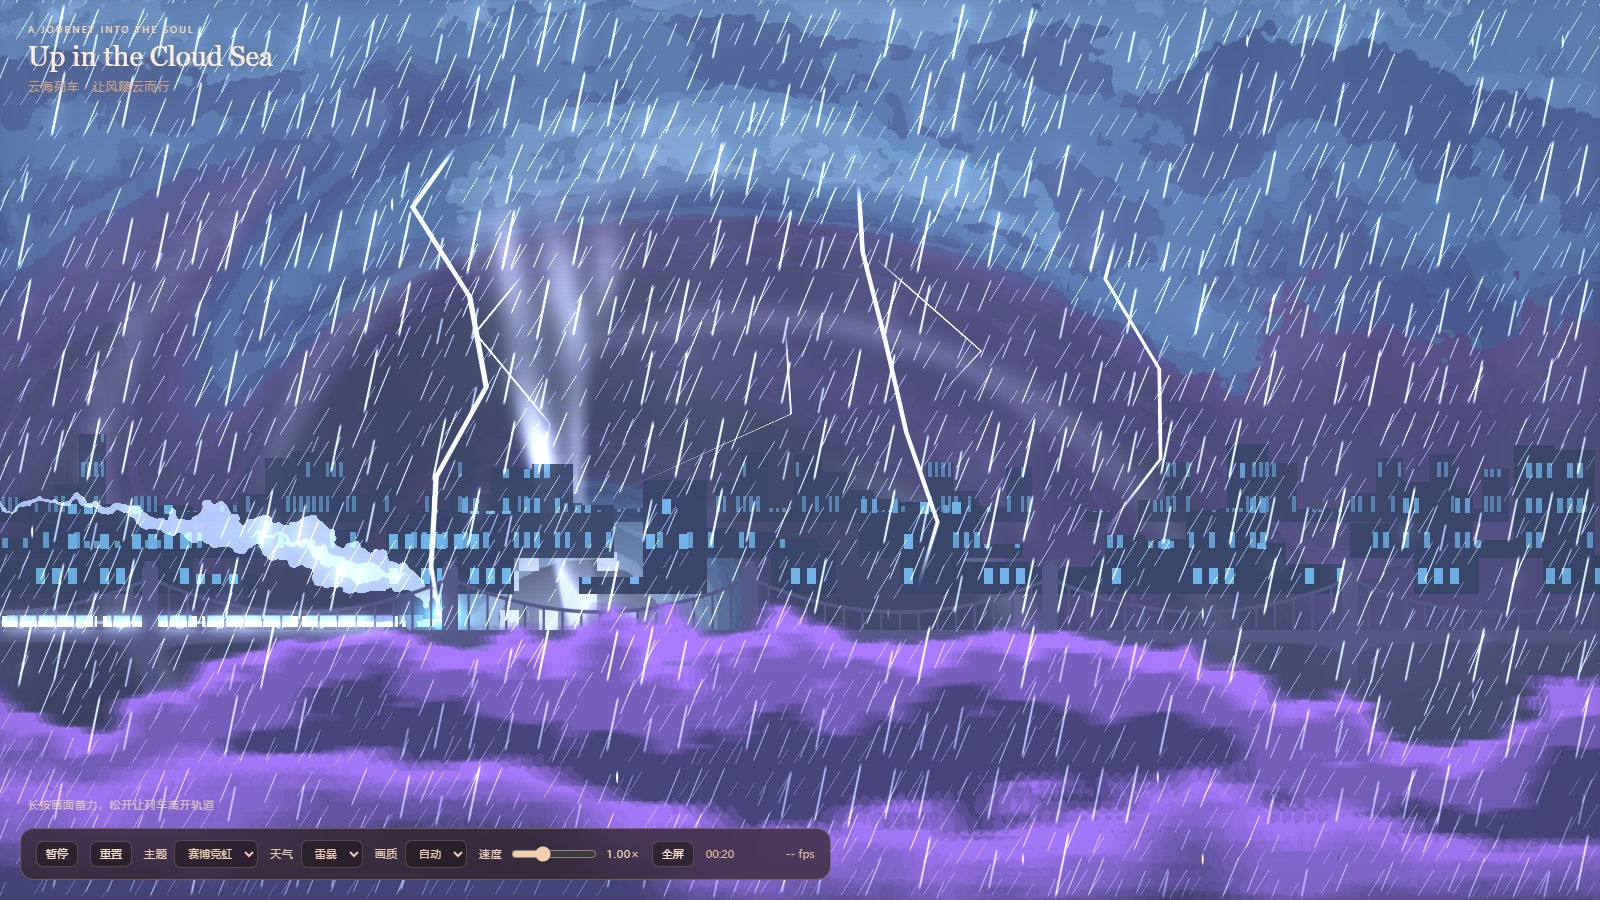
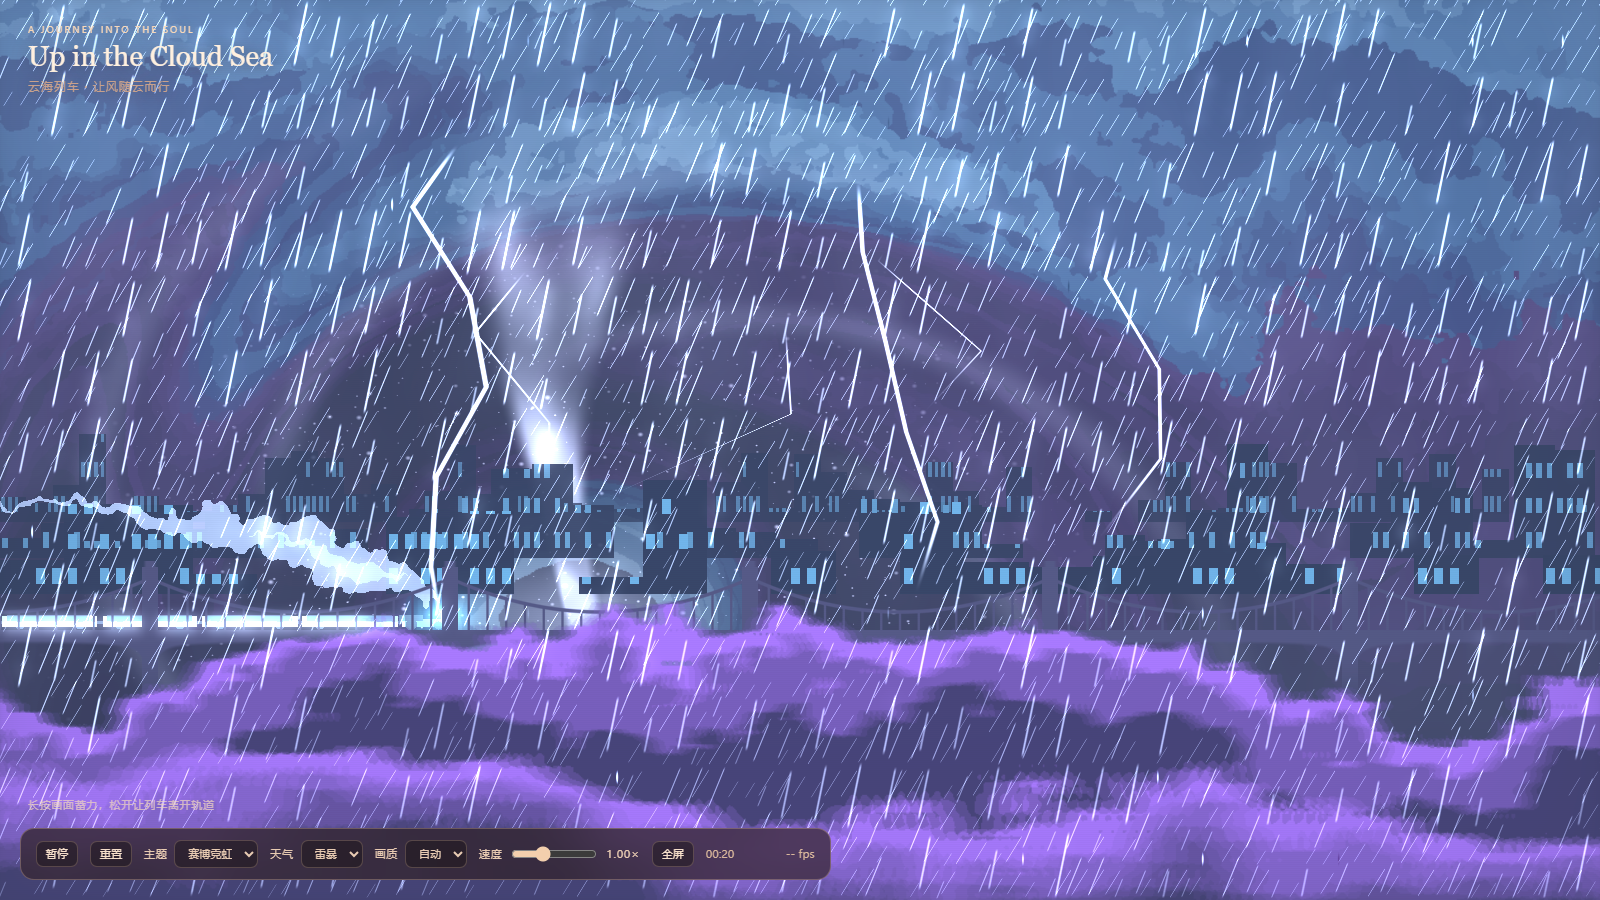
M18: 碎屑粒子化，修掉漏斗灰色网格

Changed region(s): [[0.3125, 0.2489, 0.375, 0.56], [0.3125, 0.6222, 0.4062, 0.7156]]

diff --git a/docs/开发日志.md b/docs/开发日志.md
@@ -387,11 +387,45 @@ carveDelta = -smoothstep(0.26, 0.0, tr) * 1.45 * uTornado     // 中心压到天
 
 ---
 
+## 2026-11-18 · M18 碎屑粒子化（并修掉漏斗里的灰色网格）
+
+### 先解释「龙卷中心为什么是灰色网格」
+
+不是设计，是 bug，来自两处实现：
+
+1. 碎屑写成 `step(0.86, hash21(floor(p * 46.0)))` —— 哈希按**整数格**取值，
+   每个格子要么整块亮、要么整块灭，天然就是方块阵列；
+2. 漏斗表面还叠了一层 `sin(p.x * 110.0 + ...)` 的高频竖纹，频率接近像素尺度，
+   与上面的格子叠加后形成摩尔纹，看起来就像「灰色网格图层」。
+
+### 改法
+
+1. 删掉整格亮灭的 hash 碎屑；
+2. 高频竖纹降到 `sin(p.x * 58.0 + p.y * 12.0 - t * 10.0)`，不再接近像素频率；
+3. 新写 `tornadoDebris()`：三层网格，每颗碎屑
+   - 用连续软边 `smoothstep(size, 0)` 画成圆点，而不是方块；
+   - 在格内绕小圈漂移（`orbit = 0.10 + 0.22*h2 + 0.10*sin(...)`），随时间伸缩；
+   - 按 `smoothstep(0.52, 0.16, 距漏斗距离)` 遮罩——碎屑只出现在漏斗附近，
+     不会像雪一样铺满全屏。
+
+### 数据
+
+- 1080p 雷暴 **8.84 ms**（碎屑是每像素 3 次距离计算，没有进云层循环）；
+- `verify.ps1` 8/8 通过；
+- 对比：`shots/tornado-debris.png`（左：漏斗上有方格纹；右：软边碎屑 + 干净漏斗）。
+
+### 还没做
+
+- 碎屑目前不随漏斗旋转方向一致（各自随机方向），若要更真实可以统一角速度；
+- 龙卷顶部与云层的「咬合」还可以更紧（现在有一个浅色的过渡带）。
+
+---
+
 ## 待办（按优先级）
 
 1. **音频**：风声（随天气变化）、雷声、起飞音效——M9 唯一没兑现的项；
    （雨丝质感：M12–M15 已完成，剩雨簇疏密与水花）
-2. ~~**龙卷挖空云层**~~：已完成（M16 挖空 + M17 云臂），剩碎屑粒子；
+2. ~~**龙卷**~~：已完成（M16 挖空 / M17 云臂 / M18 碎屑粒子）；
 3. **竖屏构图**：430×860 下 `uv.x` 只有 0.5，列车占比过大，需要给云层一套纵向参数；
 4. **飓风的体感**：目前靠风速与粒子漂移，可再加画面轻微抖动与云的横向拉伸；
 5. **飞行姿态**：抬轮/倾斜、车体轮廓光、发光尾迹（现在飞起来像一道光）；
